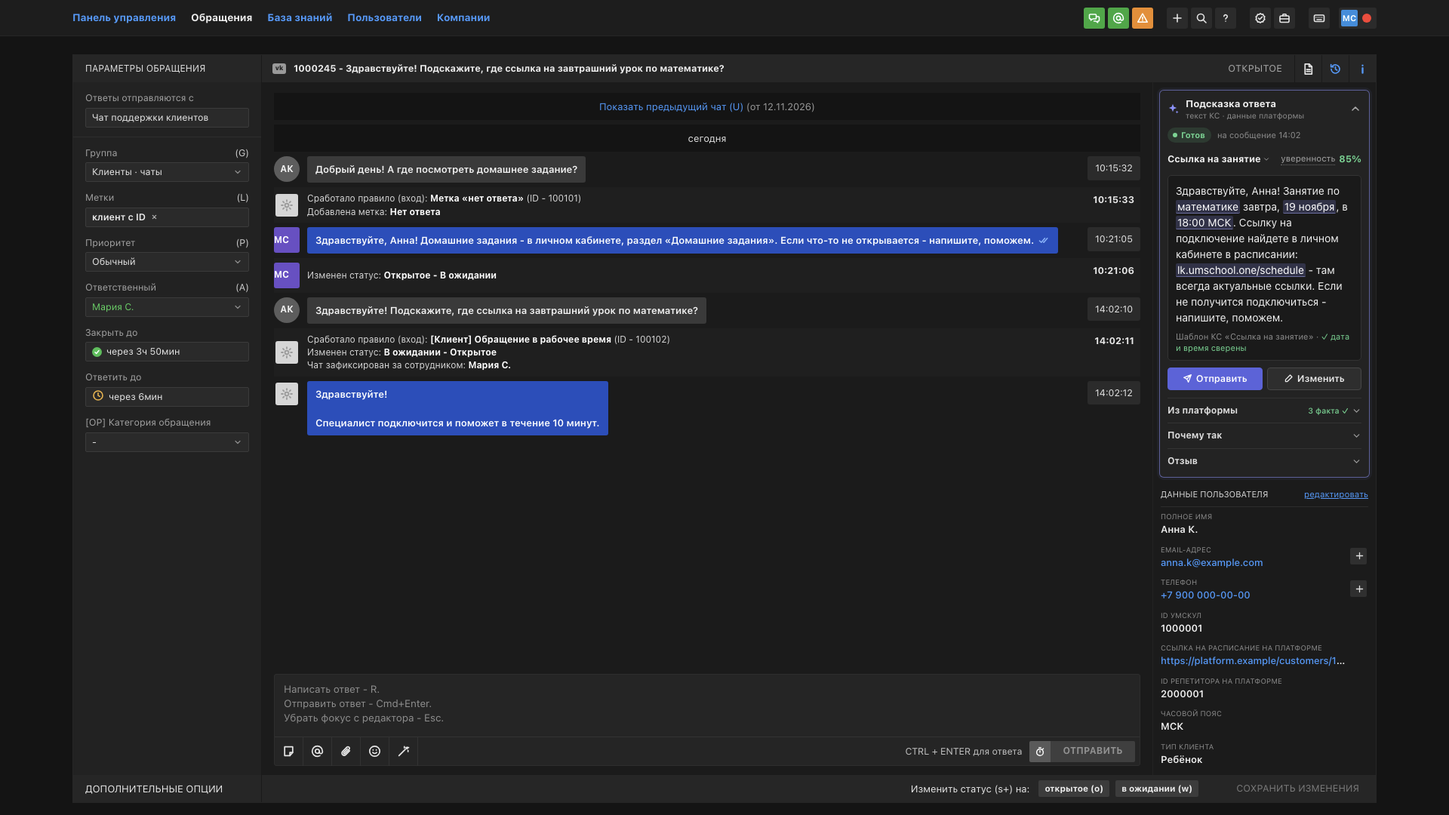
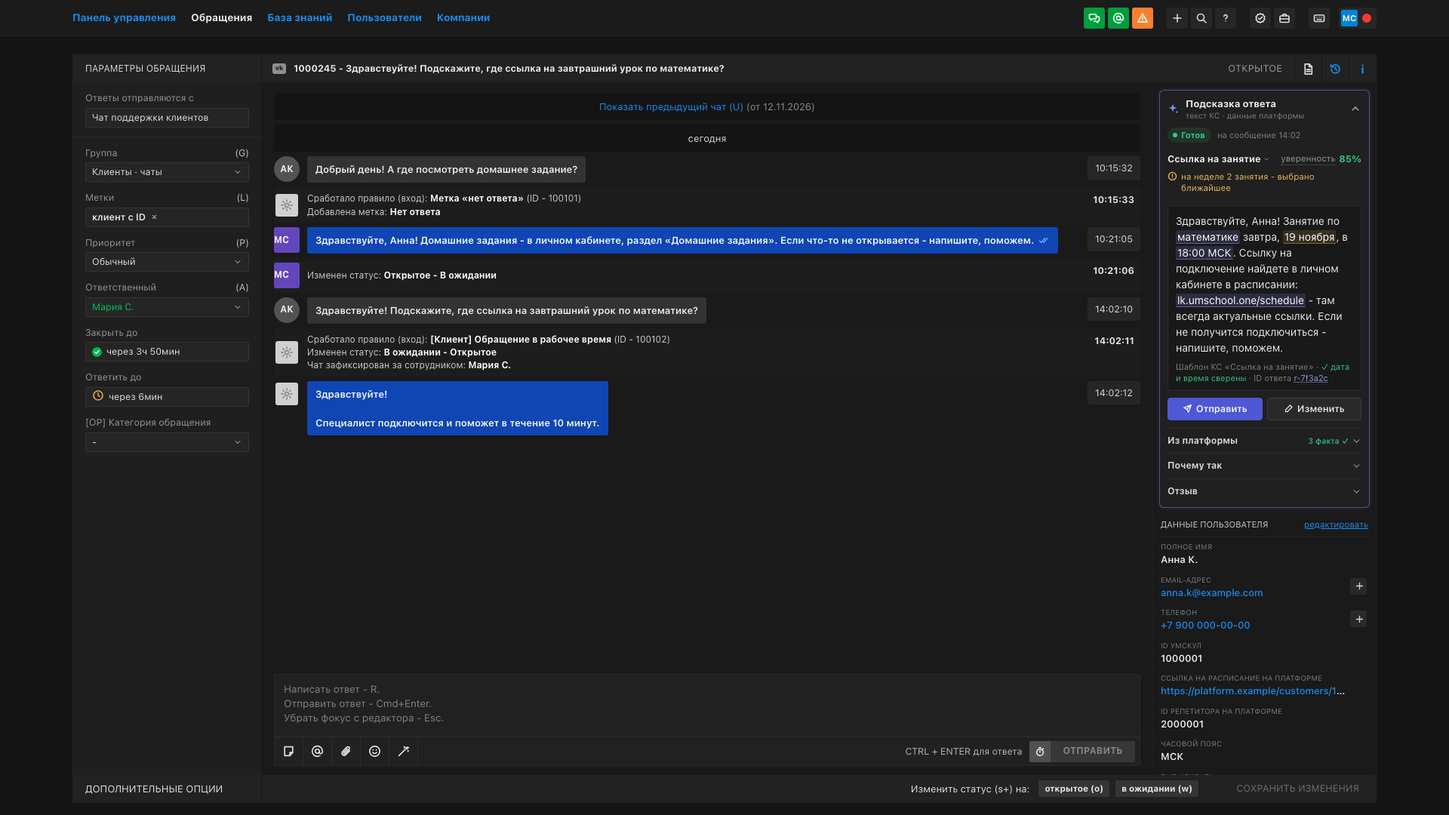
show uncertain parts without clicks, add response ID

diff --git a/src/template.html b/src/template.html
@@ -233,6 +233,11 @@ body.static .page{height:calc(100vh - 48px)}
 .sub.warn{background:rgba(242,198,92,.16);border-bottom-color:#e0b040}
 .sub.warn:hover,.sub.warn:focus{background:rgba(242,198,92,.28)}
 .draft-foot{margin-top:7px;font-size:11px;color:#8e8e8e}
+.rid-b{border:0;background:none;color:#a3a9ff;font:inherit;padding:0;cursor:pointer;text-decoration:underline dotted}
+.cwarn{list-style:none;margin:2px 0 7px;padding:0;font-size:11.5px;line-height:1.35;color:var(--warn)}
+.cwarn li{display:flex;gap:5px;align-items:flex-start}
+.cwarn svg{width:13px;height:13px;flex:none;margin-top:1px}
+.conf.open .cwarn{display:none}
 .c-ok{color:var(--ok)}.c-warn{color:var(--warn)}
 .draft.sent{opacity:.7}
 .draft.editing{border-color:var(--accent);box-shadow:0 0 0 3px var(--accent-ring)}
@@ -473,6 +478,9 @@ const PLAT = 'платформа · 14:02';
 const SUBJ = {v: 'математике', what: 'Предмет занятия', src: SLOTS};
 const DATE = {v: '19 ноября', what: 'Дата занятия', src: SLOTS};
 const TIME = {v: '18:00 МСК', what: 'Время занятия', src: SLOTS};
+const DATE_W = Object.assign({}, DATE, {warn: true, note: 'на неделе 2 занятия - выбрано ближайшее, сверьте дату'});
+const RID = {link: 'r-7f3a2c', move: 'r-2b91d0', schedule: 'r-c4e817', freeze: 'r-91af5e', appended: 'r-e05b3a'};
+const rid = () => (S.state === 'appended' && S.topic === 'link') ? RID.appended : RID[S.topic];
 const LK = {v: 'lk.umschool.one/schedule', what: 'Раздел ЛК «Расписание»', src: 'шаблон КС'};
 const PRODS = {v: 'оба продукта', what: 'Продукты', src: PLAT};
 
@@ -493,7 +501,7 @@ const LINK_FACTS = 'занятие - Slots · 14:02; ссылка - раздел
 const TOPICS = {
   link: {
     name: 'Ссылка на занятие', sub: 'Математика · завтра', tpl: 'Ссылка на занятие', check: 'дата и время сверены',
-    draft: ['Здравствуйте, Анна! Занятие по ', SUBJ, ' завтра, ', DATE, ', в ', TIME, '. Ссылку на подключение найдете в личном кабинете в расписании: ', LK, ' - там всегда актуальные ссылки. Если не получится подключиться - напишите, поможем.'],
+    draft: ['Здравствуйте, Анна! Занятие по ', SUBJ, ' завтра, ', DATE_W, ', в ', TIME, '. Ссылку на подключение найдете в личном кабинете в расписании: ', LK, ' - там всегда актуальные ссылки. Если не получится подключиться - напишите, поможем.'],
     conf: confAuto('один вопрос', 'на неделе 2 занятия - выбрано ближайшее'),
     why: {lead: 'Клиент спрашивает ссылку на завтрашнее занятие по математике.', items: [
       ['Слова темы', '«ссылка», «урок» в сообщении 14:02'],
@@ -529,7 +537,7 @@ const TOPICS = {
   },
 };
 const APPENDED = Object.assign({}, TOPICS.link, {
-  draft: ['Здравствуйте, Анна! Да, занятие по ', SUBJ, ' завтра, ', DATE, ', в ', TIME, '. Ссылку на подключение найдете в личном кабинете в расписании: ', LK, ' - там всегда актуальные ссылки. Если не получится подключиться - напишите, поможем.'],
+  draft: ['Здравствуйте, Анна! Да, занятие по ', SUBJ, ' завтра, ', DATE_W, ', в ', TIME, '. Ссылку на подключение найдете в личном кабинете в расписании: ', LK, ' - там всегда актуальные ссылки. Если не получится подключиться - напишите, поможем.'],
   conf: confAuto('один вопрос в двух сообщениях', 'на неделе 2 занятия - выбрано ближайшее'),
   why: {lead: 'Клиент уточнил время и ждёт ссылку - это один вопрос, черновик пересобран.', items: [
     ['Слова темы', '«ссылка», «урок» в 14:02 и «18:00» в 14:05'],
@@ -862,15 +870,19 @@ function tlineHTML(d) {
       <button class="tsel" data-act="topic" data-pop aria-haspopup="menu" aria-expanded="false" title="${d.name} · ${d.sub} - выбрать другую тему">${d.name}${I.chevDown}</button>
       <button class="tconf" data-act="fold" data-k="conf" aria-expanded="${o}" title="Из чего сложилась уверенность"><span>уверенность</span><b>${p}%</b></button>
     </div>
+    ${p < 100 ? `<ul class="cwarn">${d.conf.filter(x => x[0] === 'warn').map(x => `<li>${I.warn}<span>${x[1]}</span></li>`).join('')}</ul>` : ''}
     <div class="reveal${o ? ' open' : ''}"><div class="reveal-in">${bd}</div></div></div>`;
+}
+function ridHTML() {
+  return `<span class="rid">· ID ответа <button class="rid-b" data-act="copy-rid" title="Скопировать ID ответа - приложите его к обратной связи">${rid()}</button></span>`;
 }
 function draftHTML(d) {
   if (V === 'v1' && S.editMode === 'card') {
     return `<div class="draft editing"><textarea class="draft-edit" aria-label="Черновик ответа" spellcheck="false">${esc(S.cardText)}</textarea>
-      <div class="draft-foot">Шаблон КС «${d.tpl}» · правка в карточке</div></div>`;
+      <div class="draft-foot">Шаблон КС «${d.tpl}» · правка в карточке ${ridHTML()}</div></div>`;
   }
   return `<div class="draft"><div class="draft-text">${partsHTML(d.draft)}</div>
-    <div class="draft-foot">Шаблон КС «${d.tpl}» · <span class="c-ok">✓ ${d.check}</span></div></div>`;
+    <div class="draft-foot">Шаблон КС «${d.tpl}» · <span class="c-ok">✓ ${d.check}</span> ${ridHTML()}</div></div>`;
 }
 function actionsHTML(d) {
   const v2stale = V === 'v2' && S.stale;
@@ -902,9 +914,9 @@ function whyHTML(why) {
   return fold('why', 'Почему так', `<p class="why-lead">${why.lead}</p><ul class="why">${why.items.map(([k, v]) => `<li><b>${k}</b> - ${v}</li>`).join('')}</ul>`);
 }
 function fbInner() {
-  if (S.bad) return `<div class="fb-done">${I.check}<span>Отмечено: ${esc(S.bad)}. Спасибо - учтём при доработке шаблонов.</span><button class="lnk" data-act="unbad">Отменить</button></div>`;
+  if (S.bad) return `<div class="fb-done">${I.check}<span>Отмечено: ${esc(S.bad)}. Отзыв ушёл с ID ответа ${rid()} - учтём при доработке шаблонов.</span><button class="lnk" data-act="unbad">Отменить</button></div>`;
   return `<div class="fb-row"><button class="btn sm" data-act="bad" data-pop aria-haspopup="menu" aria-expanded="false">${I.thumb}Плохо${I.chevDown}</button>
-    <span class="fb-hint">или ${I.flag} у строки в «Из платформы»</span></div>`;
+    <span class="fb-hint">или ${I.flag} у строки в «Из платформы» · ID ответа ${rid()} приложится сам</span></div>`;
 }
 function fbHTML() { return fold('fb', 'Отзыв', `<div id="fbBox">${fbInner()}</div>`, S.bad ? 'отмечено' : ''); }
 function historyHTML() {
@@ -1249,6 +1261,7 @@ document.addEventListener('click', e => {
     case 'bad': openPop(a, badPop()); break;
     case 'pick-bad': closePop(); S.bad = a.dataset.v; renderFb(); break;
     case 'unbad': S.bad = null; renderFb(); break;
+    case 'copy-rid': { const t = a.textContent; try { navigator.clipboard && navigator.clipboard.writeText(t); } catch (err) {} a.textContent = 'скопировано'; setTimeout(() => { a.textContent = t; }, 1200); break; }
     case 'flag': toggleFlag(k, a); break;
     case 'send': cardSend(); break;
     case 'edit': insertDraft(); break;

diff --git a/v1-card.html b/v1-card.html
@@ -233,6 +233,11 @@ body.static .page{height:calc(100vh - 48px)}
 .sub.warn{background:rgba(242,198,92,.16);border-bottom-color:#e0b040}
 .sub.warn:hover,.sub.warn:focus{background:rgba(242,198,92,.28)}
 .draft-foot{margin-top:7px;font-size:11px;color:#8e8e8e}
+.rid-b{border:0;background:none;color:#a3a9ff;font:inherit;padding:0;cursor:pointer;text-decoration:underline dotted}
+.cwarn{list-style:none;margin:2px 0 7px;padding:0;font-size:11.5px;line-height:1.35;color:var(--warn)}
+.cwarn li{display:flex;gap:5px;align-items:flex-start}
+.cwarn svg{width:13px;height:13px;flex:none;margin-top:1px}
+.conf.open .cwarn{display:none}
 .c-ok{color:var(--ok)}.c-warn{color:var(--warn)}
 .draft.sent{opacity:.7}
 .draft.editing{border-color:var(--accent);box-shadow:0 0 0 3px var(--accent-ring)}
@@ -473,6 +478,9 @@ const PLAT = 'платформа · 14:02';
 const SUBJ = {v: 'математике', what: 'Предмет занятия', src: SLOTS};
 const DATE = {v: '19 ноября', what: 'Дата занятия', src: SLOTS};
 const TIME = {v: '18:00 МСК', what: 'Время занятия', src: SLOTS};
+const DATE_W = Object.assign({}, DATE, {warn: true, note: 'на неделе 2 занятия - выбрано ближайшее, сверьте дату'});
+const RID = {link: 'r-7f3a2c', move: 'r-2b91d0', schedule: 'r-c4e817', freeze: 'r-91af5e', appended: 'r-e05b3a'};
+const rid = () => (S.state === 'appended' && S.topic === 'link') ? RID.appended : RID[S.topic];
 const LK = {v: 'lk.umschool.one/schedule', what: 'Раздел ЛК «Расписание»', src: 'шаблон КС'};
 const PRODS = {v: 'оба продукта', what: 'Продукты', src: PLAT};
 
@@ -493,7 +501,7 @@ const LINK_FACTS = 'занятие - Slots · 14:02; ссылка - раздел
 const TOPICS = {
   link: {
     name: 'Ссылка на занятие', sub: 'Математика · завтра', tpl: 'Ссылка на занятие', check: 'дата и время сверены',
-    draft: ['Здравствуйте, Анна! Занятие по ', SUBJ, ' завтра, ', DATE, ', в ', TIME, '. Ссылку на подключение найдете в личном кабинете в расписании: ', LK, ' - там всегда актуальные ссылки. Если не получится подключиться - напишите, поможем.'],
+    draft: ['Здравствуйте, Анна! Занятие по ', SUBJ, ' завтра, ', DATE_W, ', в ', TIME, '. Ссылку на подключение найдете в личном кабинете в расписании: ', LK, ' - там всегда актуальные ссылки. Если не получится подключиться - напишите, поможем.'],
     conf: confAuto('один вопрос', 'на неделе 2 занятия - выбрано ближайшее'),
     why: {lead: 'Клиент спрашивает ссылку на завтрашнее занятие по математике.', items: [
       ['Слова темы', '«ссылка», «урок» в сообщении 14:02'],
@@ -529,7 +537,7 @@ const TOPICS = {
   },
 };
 const APPENDED = Object.assign({}, TOPICS.link, {
-  draft: ['Здравствуйте, Анна! Да, занятие по ', SUBJ, ' завтра, ', DATE, ', в ', TIME, '. Ссылку на подключение найдете в личном кабинете в расписании: ', LK, ' - там всегда актуальные ссылки. Если не получится подключиться - напишите, поможем.'],
+  draft: ['Здравствуйте, Анна! Да, занятие по ', SUBJ, ' завтра, ', DATE_W, ', в ', TIME, '. Ссылку на подключение найдете в личном кабинете в расписании: ', LK, ' - там всегда актуальные ссылки. Если не получится подключиться - напишите, поможем.'],
   conf: confAuto('один вопрос в двух сообщениях', 'на неделе 2 занятия - выбрано ближайшее'),
   why: {lead: 'Клиент уточнил время и ждёт ссылку - это один вопрос, черновик пересобран.', items: [
     ['Слова темы', '«ссылка», «урок» в 14:02 и «18:00» в 14:05'],
@@ -862,15 +870,19 @@ function tlineHTML(d) {
       <button class="tsel" data-act="topic" data-pop aria-haspopup="menu" aria-expanded="false" title="${d.name} · ${d.sub} - выбрать другую тему">${d.name}${I.chevDown}</button>
       <button class="tconf" data-act="fold" data-k="conf" aria-expanded="${o}" title="Из чего сложилась уверенность"><span>уверенность</span><b>${p}%</b></button>
     </div>
+    ${p < 100 ? `<ul class="cwarn">${d.conf.filter(x => x[0] === 'warn').map(x => `<li>${I.warn}<span>${x[1]}</span></li>`).join('')}</ul>` : ''}
     <div class="reveal${o ? ' open' : ''}"><div class="reveal-in">${bd}</div></div></div>`;
+}
+function ridHTML() {
+  return `<span class="rid">· ID ответа <button class="rid-b" data-act="copy-rid" title="Скопировать ID ответа - приложите его к обратной связи">${rid()}</button></span>`;
 }
 function draftHTML(d) {
   if (V === 'v1' && S.editMode === 'card') {
     return `<div class="draft editing"><textarea class="draft-edit" aria-label="Черновик ответа" spellcheck="false">${esc(S.cardText)}</textarea>
-      <div class="draft-foot">Шаблон КС «${d.tpl}» · правка в карточке</div></div>`;
+      <div class="draft-foot">Шаблон КС «${d.tpl}» · правка в карточке ${ridHTML()}</div></div>`;
   }
   return `<div class="draft"><div class="draft-text">${partsHTML(d.draft)}</div>
-    <div class="draft-foot">Шаблон КС «${d.tpl}» · <span class="c-ok">✓ ${d.check}</span></div></div>`;
+    <div class="draft-foot">Шаблон КС «${d.tpl}» · <span class="c-ok">✓ ${d.check}</span> ${ridHTML()}</div></div>`;
 }
 function actionsHTML(d) {
   const v2stale = V === 'v2' && S.stale;
@@ -902,9 +914,9 @@ function whyHTML(why) {
   return fold('why', 'Почему так', `<p class="why-lead">${why.lead}</p><ul class="why">${why.items.map(([k, v]) => `<li><b>${k}</b> - ${v}</li>`).join('')}</ul>`);
 }
 function fbInner() {
-  if (S.bad) return `<div class="fb-done">${I.check}<span>Отмечено: ${esc(S.bad)}. Спасибо - учтём при доработке шаблонов.</span><button class="lnk" data-act="unbad">Отменить</button></div>`;
+  if (S.bad) return `<div class="fb-done">${I.check}<span>Отмечено: ${esc(S.bad)}. Отзыв ушёл с ID ответа ${rid()} - учтём при доработке шаблонов.</span><button class="lnk" data-act="unbad">Отменить</button></div>`;
   return `<div class="fb-row"><button class="btn sm" data-act="bad" data-pop aria-haspopup="menu" aria-expanded="false">${I.thumb}Плохо${I.chevDown}</button>
-    <span class="fb-hint">или ${I.flag} у строки в «Из платформы»</span></div>`;
+    <span class="fb-hint">или ${I.flag} у строки в «Из платформы» · ID ответа ${rid()} приложится сам</span></div>`;
 }
 function fbHTML() { return fold('fb', 'Отзыв', `<div id="fbBox">${fbInner()}</div>`, S.bad ? 'отмечено' : ''); }
 function historyHTML() {
@@ -1249,6 +1261,7 @@ document.addEventListener('click', e => {
     case 'bad': openPop(a, badPop()); break;
     case 'pick-bad': closePop(); S.bad = a.dataset.v; renderFb(); break;
     case 'unbad': S.bad = null; renderFb(); break;
+    case 'copy-rid': { const t = a.textContent; try { navigator.clipboard && navigator.clipboard.writeText(t); } catch (err) {} a.textContent = 'скопировано'; setTimeout(() => { a.textContent = t; }, 1200); break; }
     case 'flag': toggleFlag(k, a); break;
     case 'send': cardSend(); break;
     case 'edit': insertDraft(); break;

diff --git a/v2-card-strip.html b/v2-card-strip.html
@@ -233,6 +233,11 @@ body.static .page{height:calc(100vh - 48px)}
 .sub.warn{background:rgba(242,198,92,.16);border-bottom-color:#e0b040}
 .sub.warn:hover,.sub.warn:focus{background:rgba(242,198,92,.28)}
 .draft-foot{margin-top:7px;font-size:11px;color:#8e8e8e}
+.rid-b{border:0;background:none;color:#a3a9ff;font:inherit;padding:0;cursor:pointer;text-decoration:underline dotted}
+.cwarn{list-style:none;margin:2px 0 7px;padding:0;font-size:11.5px;line-height:1.35;color:var(--warn)}
+.cwarn li{display:flex;gap:5px;align-items:flex-start}
+.cwarn svg{width:13px;height:13px;flex:none;margin-top:1px}
+.conf.open .cwarn{display:none}
 .c-ok{color:var(--ok)}.c-warn{color:var(--warn)}
 .draft.sent{opacity:.7}
 .draft.editing{border-color:var(--accent);box-shadow:0 0 0 3px var(--accent-ring)}
@@ -473,6 +478,9 @@ const PLAT = 'платформа · 14:02';
 const SUBJ = {v: 'математике', what: 'Предмет занятия', src: SLOTS};
 const DATE = {v: '19 ноября', what: 'Дата занятия', src: SLOTS};
 const TIME = {v: '18:00 МСК', what: 'Время занятия', src: SLOTS};
+const DATE_W = Object.assign({}, DATE, {warn: true, note: 'на неделе 2 занятия - выбрано ближайшее, сверьте дату'});
+const RID = {link: 'r-7f3a2c', move: 'r-2b91d0', schedule: 'r-c4e817', freeze: 'r-91af5e', appended: 'r-e05b3a'};
+const rid = () => (S.state === 'appended' && S.topic === 'link') ? RID.appended : RID[S.topic];
 const LK = {v: 'lk.umschool.one/schedule', what: 'Раздел ЛК «Расписание»', src: 'шаблон КС'};
 const PRODS = {v: 'оба продукта', what: 'Продукты', src: PLAT};
 
@@ -493,7 +501,7 @@ const LINK_FACTS = 'занятие - Slots · 14:02; ссылка - раздел
 const TOPICS = {
   link: {
     name: 'Ссылка на занятие', sub: 'Математика · завтра', tpl: 'Ссылка на занятие', check: 'дата и время сверены',
-    draft: ['Здравствуйте, Анна! Занятие по ', SUBJ, ' завтра, ', DATE, ', в ', TIME, '. Ссылку на подключение найдете в личном кабинете в расписании: ', LK, ' - там всегда актуальные ссылки. Если не получится подключиться - напишите, поможем.'],
+    draft: ['Здравствуйте, Анна! Занятие по ', SUBJ, ' завтра, ', DATE_W, ', в ', TIME, '. Ссылку на подключение найдете в личном кабинете в расписании: ', LK, ' - там всегда актуальные ссылки. Если не получится подключиться - напишите, поможем.'],
     conf: confAuto('один вопрос', 'на неделе 2 занятия - выбрано ближайшее'),
     why: {lead: 'Клиент спрашивает ссылку на завтрашнее занятие по математике.', items: [
       ['Слова темы', '«ссылка», «урок» в сообщении 14:02'],
@@ -529,7 +537,7 @@ const TOPICS = {
   },
 };
 const APPENDED = Object.assign({}, TOPICS.link, {
-  draft: ['Здравствуйте, Анна! Да, занятие по ', SUBJ, ' завтра, ', DATE, ', в ', TIME, '. Ссылку на подключение найдете в личном кабинете в расписании: ', LK, ' - там всегда актуальные ссылки. Если не получится подключиться - напишите, поможем.'],
+  draft: ['Здравствуйте, Анна! Да, занятие по ', SUBJ, ' завтра, ', DATE_W, ', в ', TIME, '. Ссылку на подключение найдете в личном кабинете в расписании: ', LK, ' - там всегда актуальные ссылки. Если не получится подключиться - напишите, поможем.'],
   conf: confAuto('один вопрос в двух сообщениях', 'на неделе 2 занятия - выбрано ближайшее'),
   why: {lead: 'Клиент уточнил время и ждёт ссылку - это один вопрос, черновик пересобран.', items: [
     ['Слова темы', '«ссылка», «урок» в 14:02 и «18:00» в 14:05'],
@@ -862,15 +870,19 @@ function tlineHTML(d) {
       <button class="tsel" data-act="topic" data-pop aria-haspopup="menu" aria-expanded="false" title="${d.name} · ${d.sub} - выбрать другую тему">${d.name}${I.chevDown}</button>
       <button class="tconf" data-act="fold" data-k="conf" aria-expanded="${o}" title="Из чего сложилась уверенность"><span>уверенность</span><b>${p}%</b></button>
     </div>
+    ${p < 100 ? `<ul class="cwarn">${d.conf.filter(x => x[0] === 'warn').map(x => `<li>${I.warn}<span>${x[1]}</span></li>`).join('')}</ul>` : ''}
     <div class="reveal${o ? ' open' : ''}"><div class="reveal-in">${bd}</div></div></div>`;
+}
+function ridHTML() {
+  return `<span class="rid">· ID ответа <button class="rid-b" data-act="copy-rid" title="Скопировать ID ответа - приложите его к обратной связи">${rid()}</button></span>`;
 }
 function draftHTML(d) {
   if (V === 'v1' && S.editMode === 'card') {
     return `<div class="draft editing"><textarea class="draft-edit" aria-label="Черновик ответа" spellcheck="false">${esc(S.cardText)}</textarea>
-      <div class="draft-foot">Шаблон КС «${d.tpl}» · правка в карточке</div></div>`;
+      <div class="draft-foot">Шаблон КС «${d.tpl}» · правка в карточке ${ridHTML()}</div></div>`;
   }
   return `<div class="draft"><div class="draft-text">${partsHTML(d.draft)}</div>
-    <div class="draft-foot">Шаблон КС «${d.tpl}» · <span class="c-ok">✓ ${d.check}</span></div></div>`;
+    <div class="draft-foot">Шаблон КС «${d.tpl}» · <span class="c-ok">✓ ${d.check}</span> ${ridHTML()}</div></div>`;
 }
 function actionsHTML(d) {
   const v2stale = V === 'v2' && S.stale;
@@ -902,9 +914,9 @@ function whyHTML(why) {
   return fold('why', 'Почему так', `<p class="why-lead">${why.lead}</p><ul class="why">${why.items.map(([k, v]) => `<li><b>${k}</b> - ${v}</li>`).join('')}</ul>`);
 }
 function fbInner() {
-  if (S.bad) return `<div class="fb-done">${I.check}<span>Отмечено: ${esc(S.bad)}. Спасибо - учтём при доработке шаблонов.</span><button class="lnk" data-act="unbad">Отменить</button></div>`;
+  if (S.bad) return `<div class="fb-done">${I.check}<span>Отмечено: ${esc(S.bad)}. Отзыв ушёл с ID ответа ${rid()} - учтём при доработке шаблонов.</span><button class="lnk" data-act="unbad">Отменить</button></div>`;
   return `<div class="fb-row"><button class="btn sm" data-act="bad" data-pop aria-haspopup="menu" aria-expanded="false">${I.thumb}Плохо${I.chevDown}</button>
-    <span class="fb-hint">или ${I.flag} у строки в «Из платформы»</span></div>`;
+    <span class="fb-hint">или ${I.flag} у строки в «Из платформы» · ID ответа ${rid()} приложится сам</span></div>`;
 }
 function fbHTML() { return fold('fb', 'Отзыв', `<div id="fbBox">${fbInner()}</div>`, S.bad ? 'отмечено' : ''); }
 function historyHTML() {
@@ -1249,6 +1261,7 @@ document.addEventListener('click', e => {
     case 'bad': openPop(a, badPop()); break;
     case 'pick-bad': closePop(); S.bad = a.dataset.v; renderFb(); break;
     case 'unbad': S.bad = null; renderFb(); break;
+    case 'copy-rid': { const t = a.textContent; try { navigator.clipboard && navigator.clipboard.writeText(t); } catch (err) {} a.textContent = 'скопировано'; setTimeout(() => { a.textContent = t; }, 1200); break; }
     case 'flag': toggleFlag(k, a); break;
     case 'send': cardSend(); break;
     case 'edit': insertDraft(); break;

diff --git a/v3-tab.html b/v3-tab.html
@@ -233,6 +233,11 @@ body.static .page{height:calc(100vh - 48px)}
 .sub.warn{background:rgba(242,198,92,.16);border-bottom-color:#e0b040}
 .sub.warn:hover,.sub.warn:focus{background:rgba(242,198,92,.28)}
 .draft-foot{margin-top:7px;font-size:11px;color:#8e8e8e}
+.rid-b{border:0;background:none;color:#a3a9ff;font:inherit;padding:0;cursor:pointer;text-decoration:underline dotted}
+.cwarn{list-style:none;margin:2px 0 7px;padding:0;font-size:11.5px;line-height:1.35;color:var(--warn)}
+.cwarn li{display:flex;gap:5px;align-items:flex-start}
+.cwarn svg{width:13px;height:13px;flex:none;margin-top:1px}
+.conf.open .cwarn{display:none}
 .c-ok{color:var(--ok)}.c-warn{color:var(--warn)}
 .draft.sent{opacity:.7}
 .draft.editing{border-color:var(--accent);box-shadow:0 0 0 3px var(--accent-ring)}
@@ -473,6 +478,9 @@ const PLAT = 'платформа · 14:02';
 const SUBJ = {v: 'математике', what: 'Предмет занятия', src: SLOTS};
 const DATE = {v: '19 ноября', what: 'Дата занятия', src: SLOTS};
 const TIME = {v: '18:00 МСК', what: 'Время занятия', src: SLOTS};
+const DATE_W = Object.assign({}, DATE, {warn: true, note: 'на неделе 2 занятия - выбрано ближайшее, сверьте дату'});
+const RID = {link: 'r-7f3a2c', move: 'r-2b91d0', schedule: 'r-c4e817', freeze: 'r-91af5e', appended: 'r-e05b3a'};
+const rid = () => (S.state === 'appended' && S.topic === 'link') ? RID.appended : RID[S.topic];
 const LK = {v: 'lk.umschool.one/schedule', what: 'Раздел ЛК «Расписание»', src: 'шаблон КС'};
 const PRODS = {v: 'оба продукта', what: 'Продукты', src: PLAT};
 
@@ -493,7 +501,7 @@ const LINK_FACTS = 'занятие - Slots · 14:02; ссылка - раздел
 const TOPICS = {
   link: {
     name: 'Ссылка на занятие', sub: 'Математика · завтра', tpl: 'Ссылка на занятие', check: 'дата и время сверены',
-    draft: ['Здравствуйте, Анна! Занятие по ', SUBJ, ' завтра, ', DATE, ', в ', TIME, '. Ссылку на подключение найдете в личном кабинете в расписании: ', LK, ' - там всегда актуальные ссылки. Если не получится подключиться - напишите, поможем.'],
+    draft: ['Здравствуйте, Анна! Занятие по ', SUBJ, ' завтра, ', DATE_W, ', в ', TIME, '. Ссылку на подключение найдете в личном кабинете в расписании: ', LK, ' - там всегда актуальные ссылки. Если не получится подключиться - напишите, поможем.'],
     conf: confAuto('один вопрос', 'на неделе 2 занятия - выбрано ближайшее'),
     why: {lead: 'Клиент спрашивает ссылку на завтрашнее занятие по математике.', items: [
       ['Слова темы', '«ссылка», «урок» в сообщении 14:02'],
@@ -529,7 +537,7 @@ const TOPICS = {
   },
 };
 const APPENDED = Object.assign({}, TOPICS.link, {
-  draft: ['Здравствуйте, Анна! Да, занятие по ', SUBJ, ' завтра, ', DATE, ', в ', TIME, '. Ссылку на подключение найдете в личном кабинете в расписании: ', LK, ' - там всегда актуальные ссылки. Если не получится подключиться - напишите, поможем.'],
+  draft: ['Здравствуйте, Анна! Да, занятие по ', SUBJ, ' завтра, ', DATE_W, ', в ', TIME, '. Ссылку на подключение найдете в личном кабинете в расписании: ', LK, ' - там всегда актуальные ссылки. Если не получится подключиться - напишите, поможем.'],
   conf: confAuto('один вопрос в двух сообщениях', 'на неделе 2 занятия - выбрано ближайшее'),
   why: {lead: 'Клиент уточнил время и ждёт ссылку - это один вопрос, черновик пересобран.', items: [
     ['Слова темы', '«ссылка», «урок» в 14:02 и «18:00» в 14:05'],
@@ -862,15 +870,19 @@ function tlineHTML(d) {
       <button class="tsel" data-act="topic" data-pop aria-haspopup="menu" aria-expanded="false" title="${d.name} · ${d.sub} - выбрать другую тему">${d.name}${I.chevDown}</button>
       <button class="tconf" data-act="fold" data-k="conf" aria-expanded="${o}" title="Из чего сложилась уверенность"><span>уверенность</span><b>${p}%</b></button>
     </div>
+    ${p < 100 ? `<ul class="cwarn">${d.conf.filter(x => x[0] === 'warn').map(x => `<li>${I.warn}<span>${x[1]}</span></li>`).join('')}</ul>` : ''}
     <div class="reveal${o ? ' open' : ''}"><div class="reveal-in">${bd}</div></div></div>`;
+}
+function ridHTML() {
+  return `<span class="rid">· ID ответа <button class="rid-b" data-act="copy-rid" title="Скопировать ID ответа - приложите его к обратной связи">${rid()}</button></span>`;
 }
 function draftHTML(d) {
   if (V === 'v1' && S.editMode === 'card') {
     return `<div class="draft editing"><textarea class="draft-edit" aria-label="Черновик ответа" spellcheck="false">${esc(S.cardText)}</textarea>
-      <div class="draft-foot">Шаблон КС «${d.tpl}» · правка в карточке</div></div>`;
+      <div class="draft-foot">Шаблон КС «${d.tpl}» · правка в карточке ${ridHTML()}</div></div>`;
   }
   return `<div class="draft"><div class="draft-text">${partsHTML(d.draft)}</div>
-    <div class="draft-foot">Шаблон КС «${d.tpl}» · <span class="c-ok">✓ ${d.check}</span></div></div>`;
+    <div class="draft-foot">Шаблон КС «${d.tpl}» · <span class="c-ok">✓ ${d.check}</span> ${ridHTML()}</div></div>`;
 }
 function actionsHTML(d) {
   const v2stale = V === 'v2' && S.stale;
@@ -902,9 +914,9 @@ function whyHTML(why) {
   return fold('why', 'Почему так', `<p class="why-lead">${why.lead}</p><ul class="why">${why.items.map(([k, v]) => `<li><b>${k}</b> - ${v}</li>`).join('')}</ul>`);
 }
 function fbInner() {
-  if (S.bad) return `<div class="fb-done">${I.check}<span>Отмечено: ${esc(S.bad)}. Спасибо - учтём при доработке шаблонов.</span><button class="lnk" data-act="unbad">Отменить</button></div>`;
+  if (S.bad) return `<div class="fb-done">${I.check}<span>Отмечено: ${esc(S.bad)}. Отзыв ушёл с ID ответа ${rid()} - учтём при доработке шаблонов.</span><button class="lnk" data-act="unbad">Отменить</button></div>`;
   return `<div class="fb-row"><button class="btn sm" data-act="bad" data-pop aria-haspopup="menu" aria-expanded="false">${I.thumb}Плохо${I.chevDown}</button>
-    <span class="fb-hint">или ${I.flag} у строки в «Из платформы»</span></div>`;
+    <span class="fb-hint">или ${I.flag} у строки в «Из платформы» · ID ответа ${rid()} приложится сам</span></div>`;
 }
 function fbHTML() { return fold('fb', 'Отзыв', `<div id="fbBox">${fbInner()}</div>`, S.bad ? 'отмечено' : ''); }
 function historyHTML() {
@@ -1249,6 +1261,7 @@ document.addEventListener('click', e => {
     case 'bad': openPop(a, badPop()); break;
     case 'pick-bad': closePop(); S.bad = a.dataset.v; renderFb(); break;
     case 'unbad': S.bad = null; renderFb(); break;
+    case 'copy-rid': { const t = a.textContent; try { navigator.clipboard && navigator.clipboard.writeText(t); } catch (err) {} a.textContent = 'скопировано'; setTimeout(() => { a.textContent = t; }, 1200); break; }
     case 'flag': toggleFlag(k, a); break;
     case 'send': cardSend(); break;
     case 'edit': insertDraft(); break;
